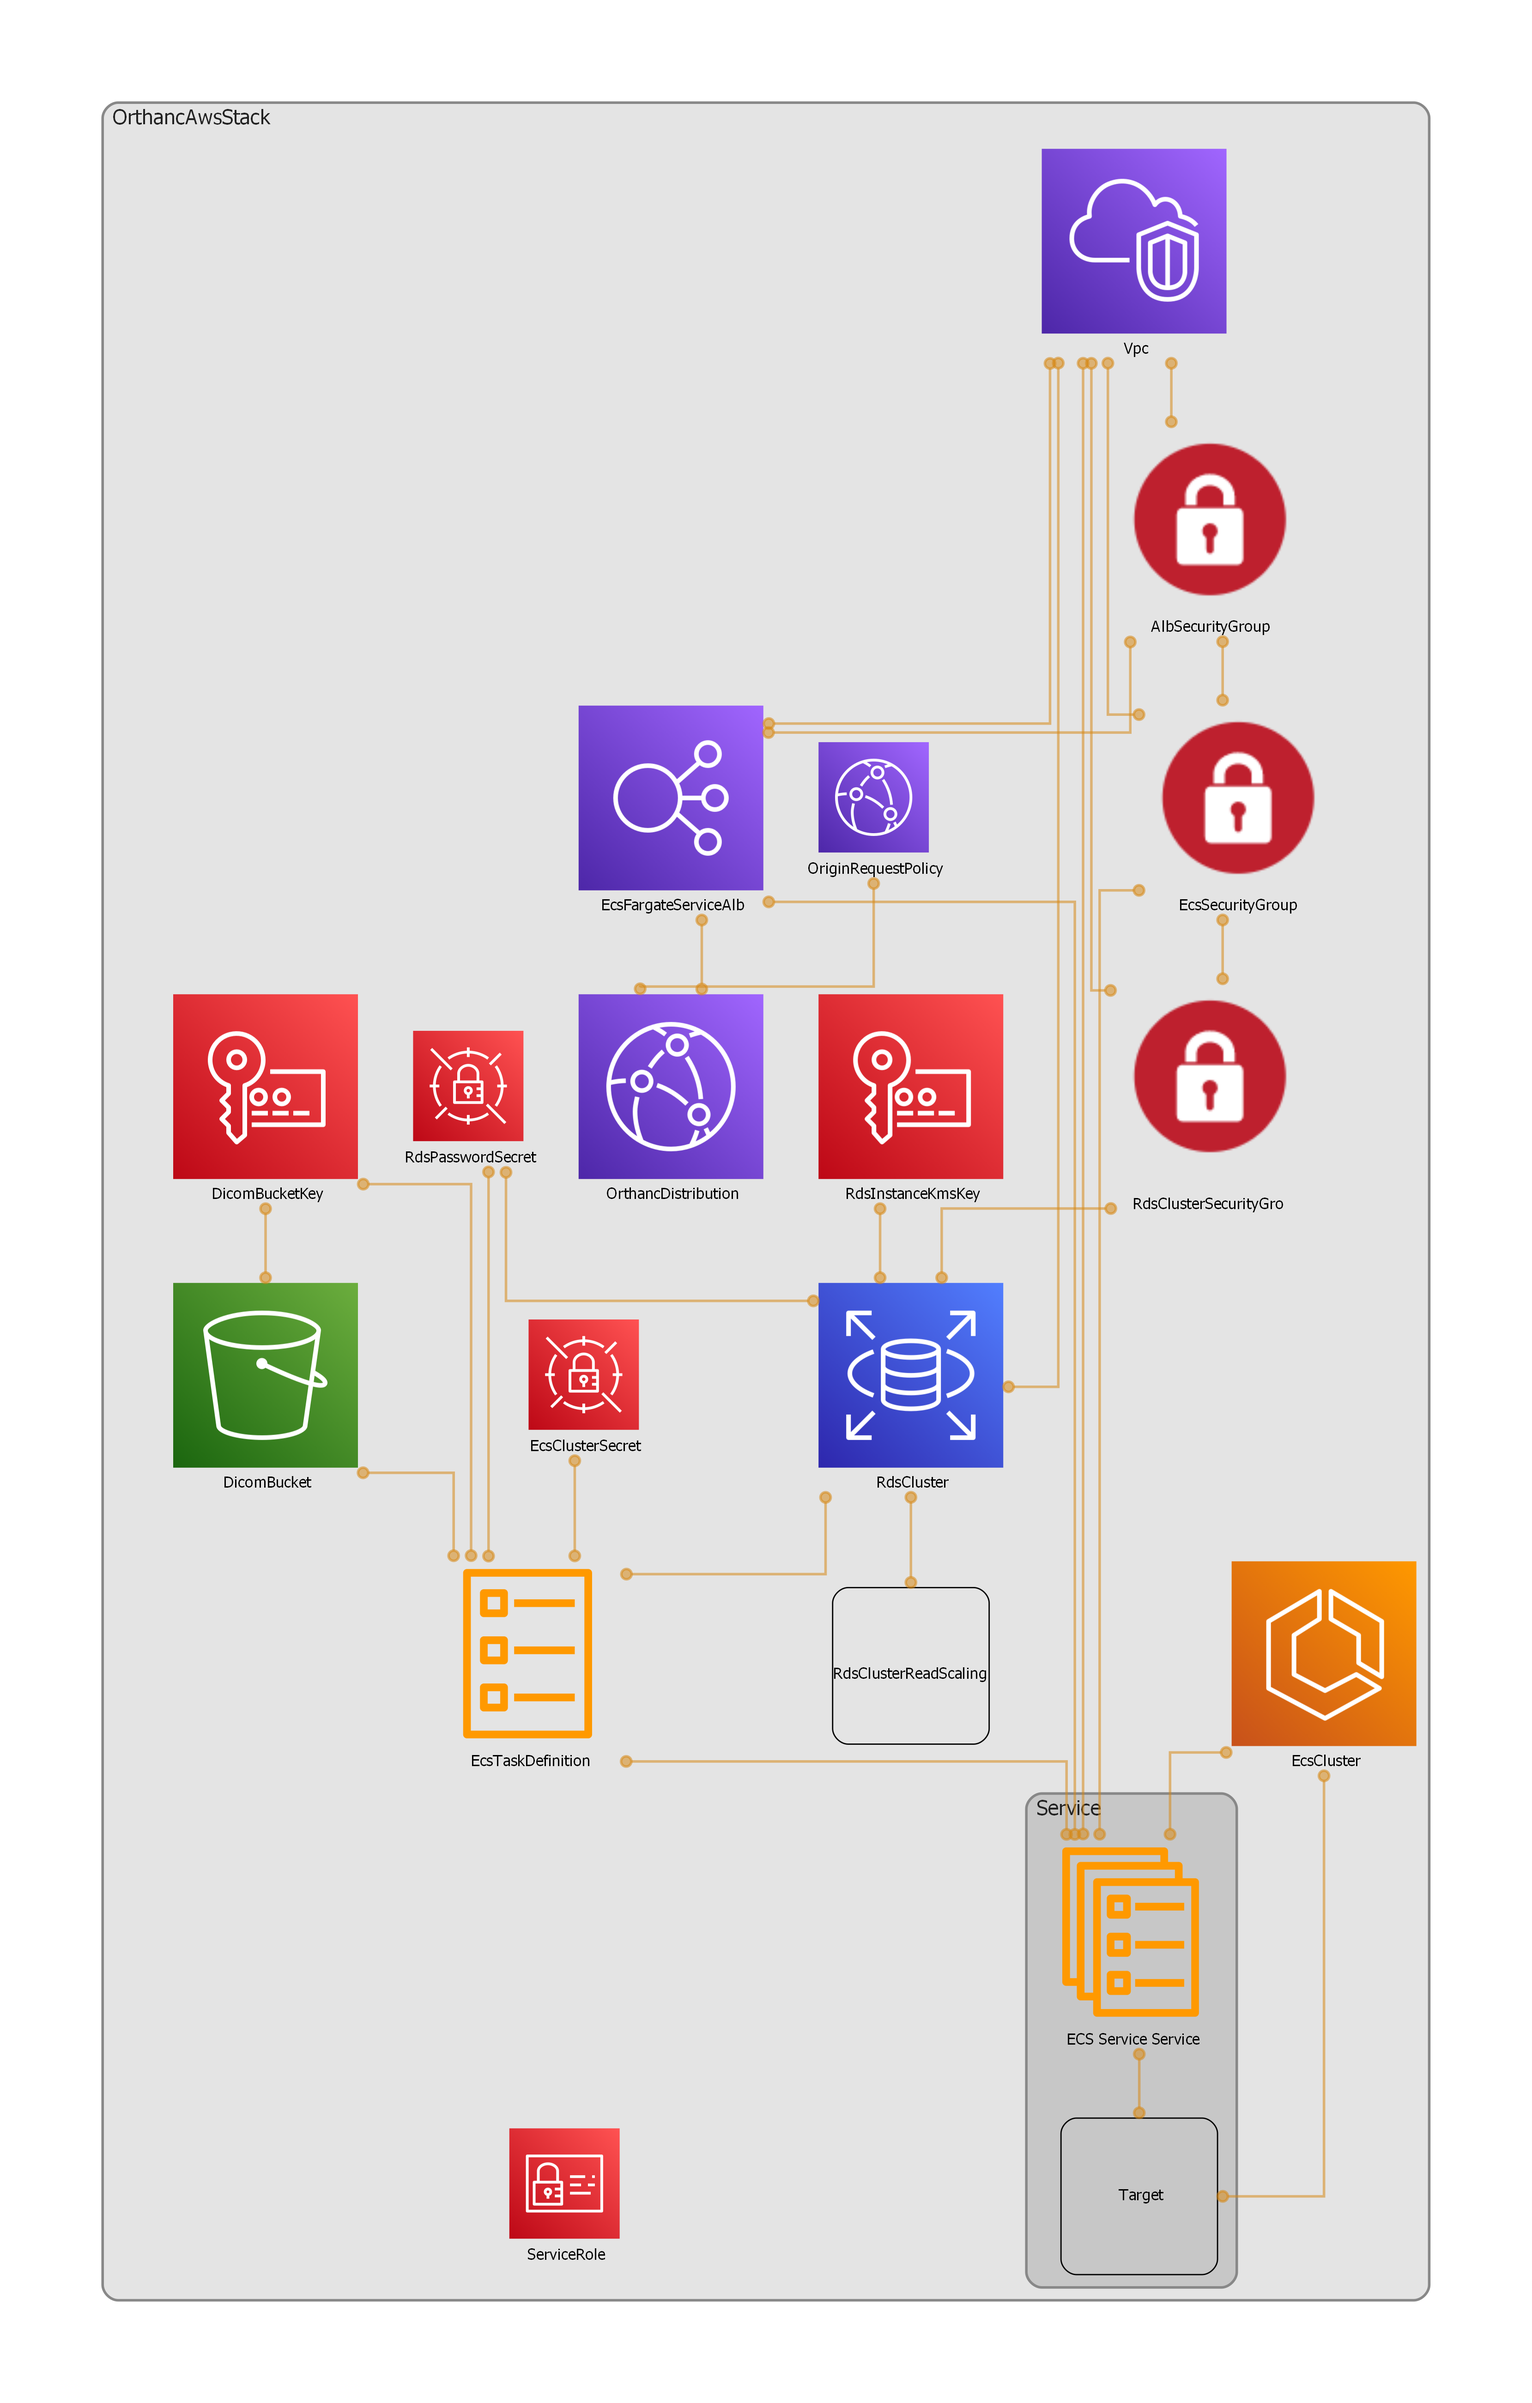
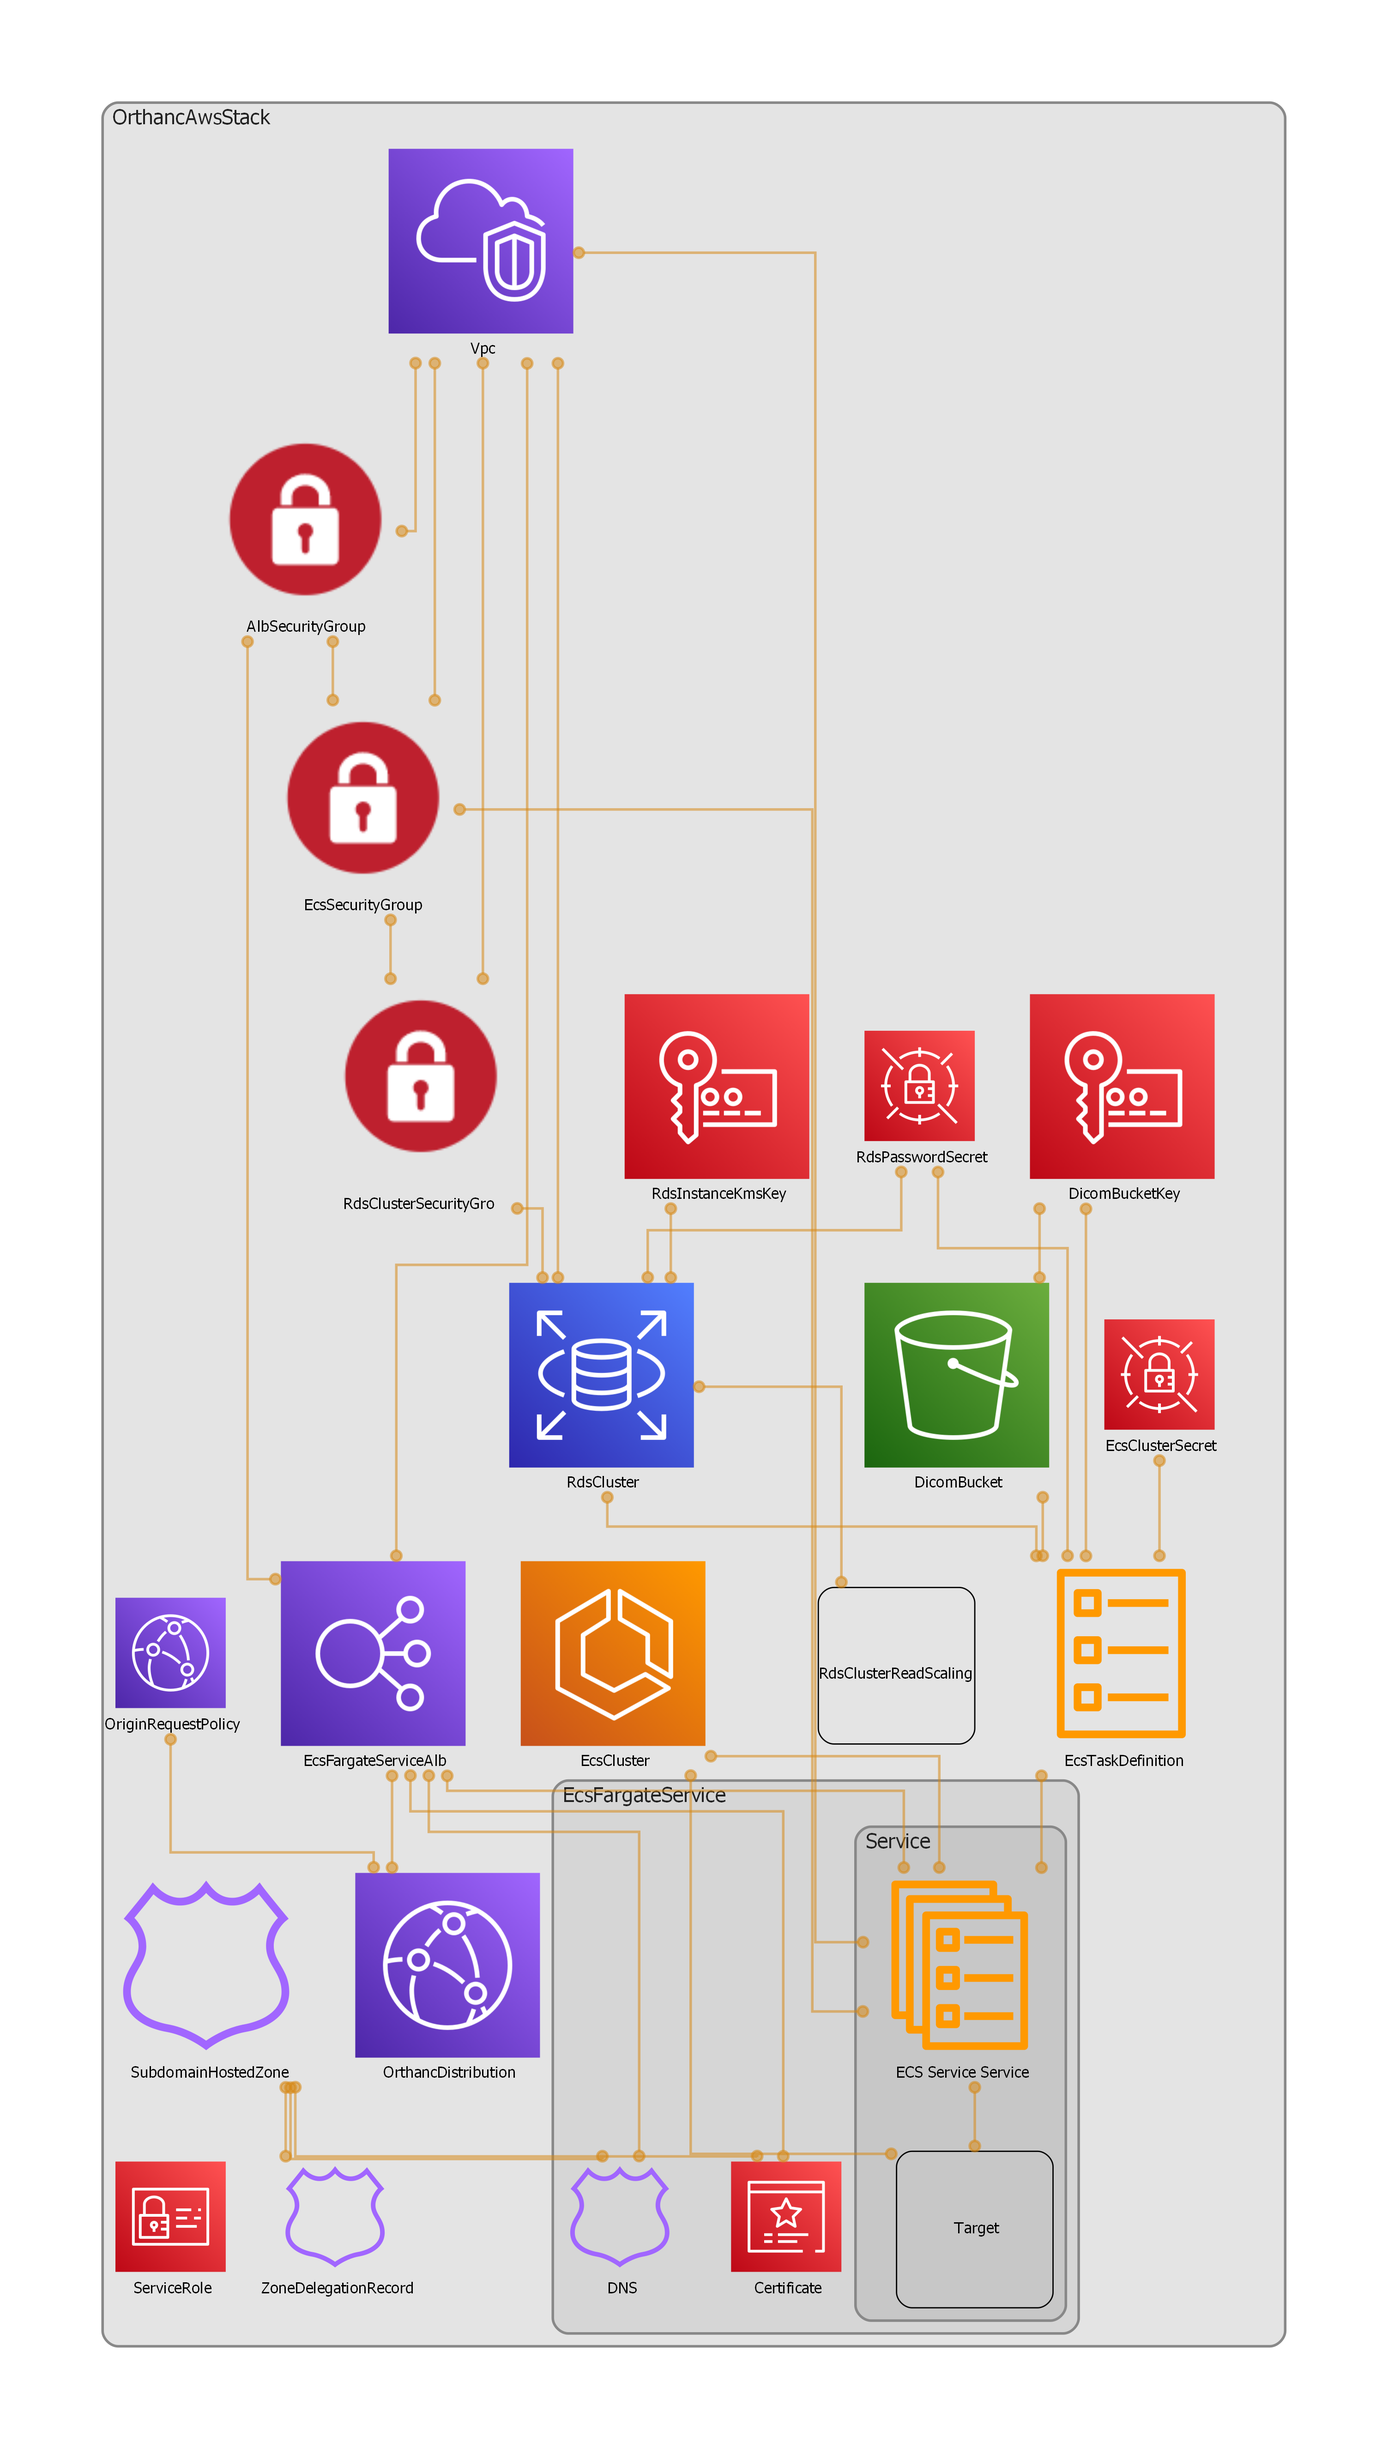
refactor: organize constants

Changed region(s): [[0.0619, 0.0311, 0.9591, 0.9652], [0.3094, 0.8718, 0.495, 0.9652], [0.4331, 0.9341, 0.4641, 0.9652]]

diff --git a/lib/orthanc_aws-stack.ts b/lib/orthanc_aws-stack.ts
@@ -17,7 +17,6 @@ import * as route53 from "aws-cdk-lib/aws-route53";
 // Generic constants
 const ANY_IPV4_CIDR = "0.0.0.0/0";
 const HTTP_PORT = 80;
-const HTTPS_PORT = 443;
 const ORTHANC_DICOM_SERVER_PORT = 4242;
 const ORTHANC_HTTP_SERVER_PORT = 8042;
 const POSTGRESQL_PORT = 5432;
@@ -30,7 +29,6 @@ const ENABLE_MULTIPLE_AVAILABILITY_ZONES = true;
 // VPC constants
 const VPC_MAX_AVAILABILITY_ZONES = 2;
 const VPC_ID = "Vpc";
-const VPC_FLOW_LOGS_CW_LOG_GROUP_ID = "FlowLogsCloudWatchLogGroup";
 const VPC_FLOW_LOGS_ID = "FlowLogs";
 
 // ELB constants
@@ -44,8 +42,6 @@ const RDS_PASSWORD_SECRET_ID = "RdsPasswordSecret";
 const RDS_KMS_KEY_ID = "RdsInstanceKmsKey";
 const RDS_DETECTION_PROTECTION = false;
 const RDS_ENCRYPT_STORAGE = true;
-const RDS_INSTANCE_ID = "RdsInstance";
-const RDS_INSTANCE_SIZE_GB = 20;
 const RDS_BACKUP_RETENTION_DAYS = 30;
 const RDS_INSTANCE_USERNAME = "postgres";
 const RDS_INSTANCE_CW_LOGS_EXPORTS = ["postgresql"];
@@ -134,8 +130,12 @@ const CDK_OUTPUT_CLOUDFRONT_DISTRIBUTION_URL_NAME = "cloudfrontDistributionUrl";
 
 // CDK context constants
 const CDK_CONTEXT_SUBDOMAIN_NAME_KEY = "subdomain";
-const CDK_CONTEXT_SHOULD_CREATE_SUBDOMAIN_ZONE_KEY = "createSubdomainZone";
+const CDK_CONTEXT_SHOULD_CREATE_SUBDOMAIN_ZONE_KEY =
+  "shouldCreateSubdomainZone";
 
+const ECS_SCALABLE_TARGET_MIN_CAPACITY = 1;
+const ECS_SCALABLE_TARGET_MAX_CAPACITY = 10;
+const CREATE_SUBDOMAIN = "create";
 export class OrthancAwsStack extends cdk.Stack {
   constructor(scope: Construct, id: string, props?: cdk.StackProps) {
     super(scope, id, props);
@@ -161,11 +161,6 @@ export class OrthancAwsStack extends cdk.Stack {
       ELB_ALB_SECURITY_GROUP_ID,
       { vpc: vpc }
     );
-
-    // loadBalancerSecurityGroup.addIngressRule(
-    //   ec2.Peer.ipv4(ANY_IPV4_CIDR),
-    //   ec2.Port.tcp(HTTPS_PORT)
-    // );
 
     // Allow inbound traffic from load balancer's HTTP and Orcthanc's DICOM and HTTP server
     const ecsSecurityGroup = new ec2.SecurityGroup(
@@ -356,8 +351,6 @@ export class OrthancAwsStack extends cdk.Stack {
         image: ecs.ContainerImage.fromAsset(ECS_CONTAINER_IMAGE_ASSET_PATH),
         logging: ecsLogDriver,
         environment: {
-          // ORTHANC__POSTGRESQL__HOST: rdsInstance.dbInstanceEndpointAddress,
-          // ORTHANC__POSTGRESQL__PORT: rdsInstance.dbInstanceEndpointPort,
           ORTHANC__POSTGRESQL__HOST: rdsCluster.clusterEndpoint.hostname,
           ORTHANC__POSTGRESQL__PORT: cdk.Token.asString(
             rdsCluster.clusterEndpoint.port
@@ -437,7 +430,7 @@ export class OrthancAwsStack extends cdk.Stack {
       let subdomainZone: route53.IHostedZone;
 
       // Create a hosted zone for the subdomain if the context is set
-      if (contextShouldCreateSubdomainZone !== undefined) {
+      if (contextShouldCreateSubdomainZone === CREATE_SUBDOMAIN) {
         const rootZone = route53.HostedZone.fromLookup(
           this,
           ROUTE53_ROOT_ZONE_ID,
@@ -511,8 +504,8 @@ export class OrthancAwsStack extends cdk.Stack {
     }
 
     const ecsScalableTarget = ecsFargateService.service.autoScaleTaskCount({
-      minCapacity: 1,
-      maxCapacity: 10,
+      minCapacity: ECS_SCALABLE_TARGET_MIN_CAPACITY,
+      maxCapacity: ECS_SCALABLE_TARGET_MAX_CAPACITY,
     });
 
     ecsScalableTarget.scaleOnCpuUtilization(

diff --git a/Readme.rst b/Readme.rst
@@ -12,7 +12,7 @@ Features
 
 |check| cloudwatch logs
 
-|uncheck| loadbalancer SSL offloading
+|check| loadbalancer SSL offloading
 
 |check| publicly accessible
 
@@ -57,7 +57,16 @@ Deployment
 
 #. Download project ``git clone https://github.com/gmeligio/orthanc_aws.git && cd orthanc_aws``
 #. Install NodeJS dependencies ``yarn install``
-#. Deploy to AWS ``cdk deploy``. The command takes between 15-20 min to deploy.
+#. Deploy to AWS. The deploy command takes between 15-20 min to complete.
+   
+   #. For SSL offloading support a hosted zone for an apex domain must already exists in Route53, i.e. ``example.com``. Pass a subdomain argument (like ``subdomain=orthanc.example.com``).
+   
+      #. If a Route53 hosted zone does not exist for this subdomain, then one should be created, pass ``shouldCreateSubdomainZone=create``. A full example: ``cdk deploy -c subdomain=orthanc.example.com -c shouldCreateSubdomainZone=create``. 
+      #.  If a Route53 hosted zone exists, do not pass the ``shouldCreateSubdomainZone`` argument. A full example: ``cdk deploy -c subdomain=orthanc.example.com``. 
+
+   #. Without SSL offloading and exposing the load balancer in HTTP port (TCP 80): ``cdk deploy``
+   
+
 #. Once the command ``cdk deploy`` command is completed, get from the terminal output:
    
    #. Load balancer URL
